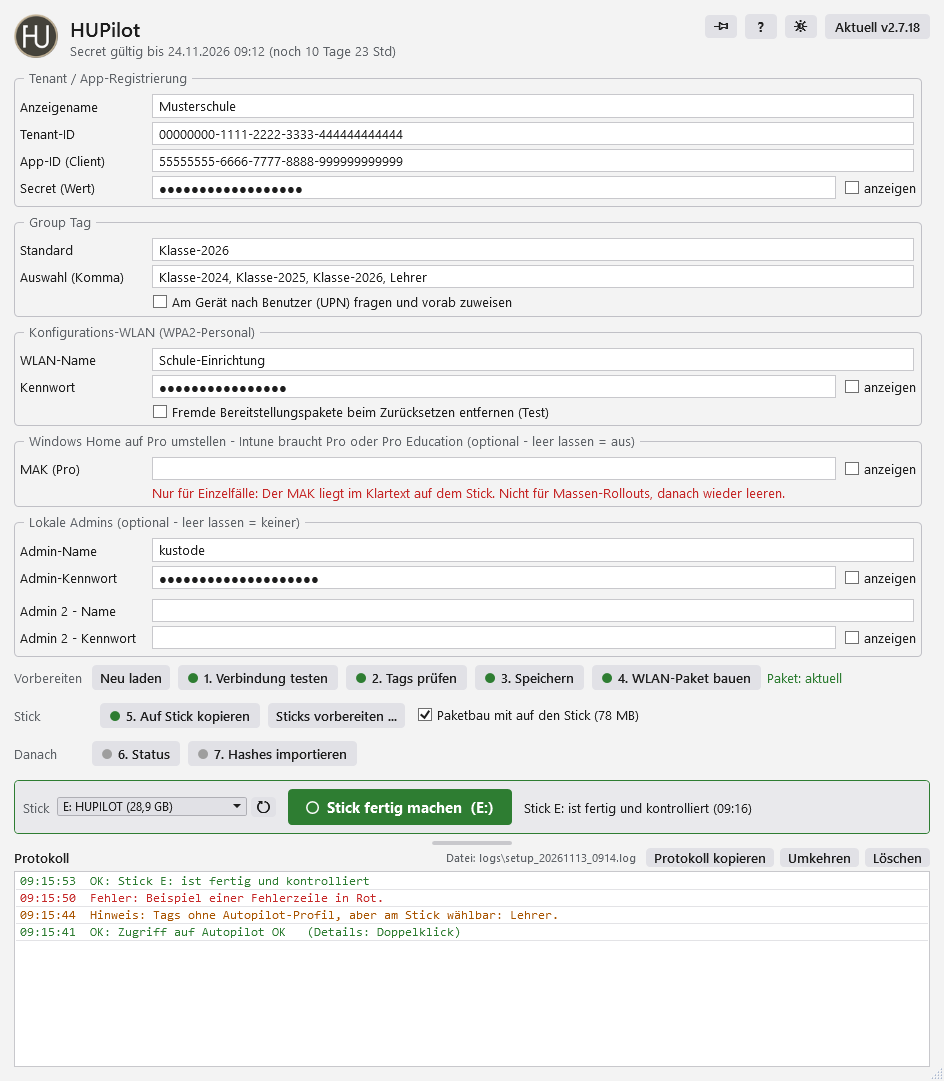
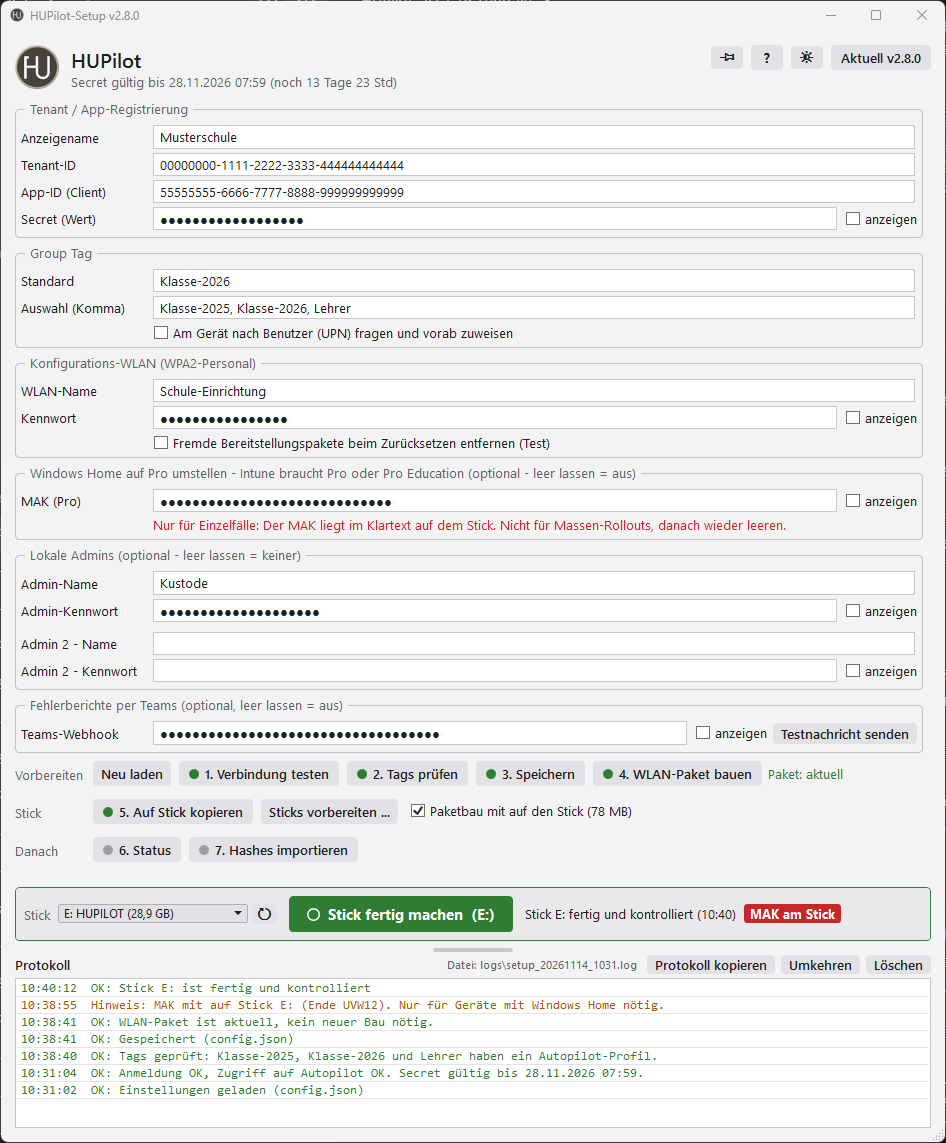
Doku: README, INSTALL und Anleitung auf den Stand gebracht, alle Bilder neu

Changed region(s): [[0.0, 0.0, 1.0, 1.0], [0.8909, 0.0, 1.0, 0.0611], [0.8294, 0.0, 0.8602, 0.0611]]

diff --git a/Stick/HUPilot/Setup/Anleitung.html b/Stick/HUPilot/Setup/Anleitung.html
@@ -117,7 +117,7 @@ code{background:var(--panel2);padding:1px 6px;border-radius:5px;font-size:13px}
 <tr><td><code>HUPilot-Setup.cmd</code></td><td>Oberfläche am Admin-PC</td></tr>
 <tr><td><code>HUPilot\config.json</code></td><td>Tenant, App, Secret, Tags, WLAN</td></tr>
 <tr><td><code>HUPilot\HUPilot-WLAN.ppkg</code></td><td>WLAN für die Einrichtung nach dem Zurücksetzen</td></tr>
-<tr><td><code>HUPilot\logs\</code></td><td>Log je Gerät, <code>protokoll.csv</code>, offline gespeicherte Hashes <code>hashes.csv</code>, Diagnose-Dateien, Protokolle des Setups</td></tr>
+<tr><td><code>HUPilot\logs\</code></td><td>Log je Gerät, <code>protokoll.csv</code>, offline gespeicherte Hashes <code>hashes.csv</code>, Diagnose-Dateien, Protokolle des Setups, in <code>outbox</code> noch nicht gesendete Berichte an den Admin</td></tr>
 </table>
 </section>
 
@@ -136,8 +136,8 @@ code{background:var(--panel2);padding:1px 6px;border-radius:5px;font-size:13px}
 <li><b>Secret beim Start:</b> Unter dem Titel steht, bis wann das Secret gilt. "Keine Verbindung - Secret nicht geprüft" (grau) heißt nur: kein Internet. Rot "Secret UNGÜLTIG" kommt nur, wenn es wirklich abgelaufen oder falsch ist.</li>
 <li><b>Secret abgelaufen:</b> Oben erscheint ein roter Hinweis mit dem Knopf <span class="ui">Neues Secret anlegen</span>, derselbe Knopf steht neben <i>Stick fertig machen</i>. Er öffnet die App-Registrierung im Entra-Portal. Dort ein neues Secret anlegen, den <b>Wert</b> kopieren (nicht die ID) und im Setup bei <i>Secret (Wert)</i> einfügen. Das Setup prüft von selbst und meldet "Neues Secret gültig bis ...". Danach speichern und <b>jeden Stick neu bespielen</b>, alte Sticks laden keine Geräte mehr hoch.</li>
 <li><b>Merker neben dem Hauptknopf:</b> Rot "MAK am Stick" heißt, auf dem gewählten Stick liegt ein MAK im Klartext (der Tooltip nennt die letzten 5 Zeichen). Stick ohne MAK: nochmal <i>Stick fertig machen</i> und bei der Frage zum MAK <b>Nein</b>. Gelb "Stick prüfen" heißt, die Einstellungen am Stick sind nicht lesbar: <i>Stick fertig machen</i> wiederholen.</li>
-<li><b>Fehlerberichte per Teams (optional):</b> Mit einer Adresse bei <i>Teams-Webhook</i> schickt go bei einem Fehler am Gerät von selbst einen Bericht in einen Teams-Kanal: Anzeigename, Seriennummer, Modell, was passiert ist und die letzten Zeilen des Logs. Einrichten: in Teams die App <b>Workflows</b> öffnen, Vorlage "Webhookbenachrichtigungen an einen Kanal" wählen, die angezeigte Adresse kopieren, im Setup einfügen, <span class="ui">Testnachricht senden</span>, speichern und die Sticks neu bespielen. Private Kanäle gehen nicht, ein Standardkanal in einem privaten Team schon. Mehrere Schulen können denselben Kanal nutzen, der Anzeigename steht in jeder Nachricht. Ohne Internet am Gerät bleibt der Bericht am Stick und wird später gesendet, auch vom Setup, sobald der Stick am PC steckt. Die Adresse liegt im Klartext am Stick: wer sie kennt, kann in den Kanal schreiben. Im Bericht können Benutzername und WLAN-Name stehen, den Kanal deshalb nicht für alle öffnen.</li>
-<li><b>Protokoll:</b> Rechtsklick, <i>An Admin senden</i> schickt eine Zeile mit Details in den Teams-Kanal (nur mit eingetragenem Teams-Webhook). Die Maus über einer Zeile zeigt die technische Meldung gegliedert, Doppelklick klappt sie auf. Rechtsklick, <i>Details kopieren</i> legt sie ohne Secret und Kennwörter in die Zwischenablage, zum Beispiel für eine Rückfrage beim Admin.</li>
+<li><b>Fehlerberichte per Teams (optional):</b> Mit einer Adresse bei <i>Teams-Webhook</i> schickt go bei einem Fehler am Gerät von selbst einen Bericht in einen Teams-Kanal: Anzeigename, Seriennummer, Modell, was passiert ist und das Log dieses Laufs (gleiche Meldungen nur einmal, mit Zähler). Einrichten: in Teams die App <b>Workflows</b> öffnen, Vorlage "Webhookbenachrichtigungen an einen Kanal" wählen, die angezeigte Adresse kopieren, im Setup einfügen, <span class="ui">Testnachricht senden</span>, speichern und die Sticks neu bespielen. Private Kanäle gehen nicht, ein Standardkanal in einem privaten Team schon. Mehrere Schulen können denselben Kanal nutzen, der Anzeigename steht in jeder Nachricht. Ohne Internet am Gerät bleibt der Bericht am Stick (<code>HUPilot\logs\outbox</code>) und wird später gesendet: von go beim nächsten Lauf mit Internet oder vom Setup, sobald der Stick am PC gewählt ist, beim Start und nach <i>Stick fertig machen</i>. Von selbst gehen höchstens 3 Berichte auf einmal, den Rest schickt der Rechtsklick im Protokoll <i>Berichte vom Stick senden</i>. Klappt das Senden nicht, versucht es das Setup beim nächsten Anstecken, nach <i>Stick fertig machen</i> oder frühestens nach 5 Minuten erneut. <i>Sticks vorbereiten</i> sendet die Berichte vor dem Formatieren und nennt in der Rückfrage, was dabei verloren ginge. Die Adresse liegt im Klartext am Stick: wer sie kennt, kann in den Kanal schreiben. Im Bericht können Benutzername und WLAN-Name stehen, den Kanal deshalb nicht für alle öffnen.</li>
+<li><b>Protokoll:</b> Rechtsklick, <i>An Admin senden</i> schickt eine Zeile mit Details in den Teams-Kanal (nur mit eingetragenem Teams-Webhook, nicht während ein Vorgang läuft). Liegen Berichte am Stick, steht dort auch <i>Berichte vom Stick senden (Anzahl)</i>. Die Maus über einer Zeile zeigt die technische Meldung gegliedert, Doppelklick klappt sie auf. Rechtsklick, <i>Details kopieren</i> legt sie ohne Secret und Kennwörter in die Zwischenablage, zum Beispiel für eine Rückfrage beim Admin.</li>
 <li><b>Beim Speichern geprüft:</b> Pflichtfelder, Tenant-ID und App-ID, WLAN-Kennwort (mindestens 8 Zeichen), lokale Admins, MAK, Group Tag und die Auswahl (gleiche Regeln wie am Gerät: Buchstaben, Ziffern, Punkt, Bindestrich, Unterstrich, höchstens 9 Einträge). Fehlt etwas, sagt das Protokoll, welches Feld und was zu tun ist.</li>
 <li><b>Auswahl leer lassen:</b> am Gerät gibt es dann keine Tag-Frage, es gilt der Standard-Tag.</li>
 </ul>
@@ -174,10 +174,10 @@ code{background:var(--panel2);padding:1px 6px;border-radius:5px;font-size:13px}
 <tr><td><span class="ui">3. Speichern</span></td><td>prüft die Eingaben und schreibt <code>config.json</code></td></tr>
 <tr><td><span class="ui">4. WLAN-Paket bauen</span></td><td>speichert zuerst und baut dann <code>HUPilot-WLAN.ppkg</code>. Braucht das <b>Windows ADK</b> mit <i>Imaging and Configuration Designer</i>. Sind <b>lokale Admins</b> eingetragen (Admin und optional Admin 2, z. B. Elternverein), kommen sie mit ins Paket: Sie werden nach jedem Zurücksetzen angelegt, Kennwort und Konto laufen nie ab.<br>Daneben steht der Stand des Pakets: <b>aktuell</b> (passt zu WLAN und Admins), <b>veraltet</b> (WLAN oder Admins geändert, neu bauen), <b>fehlt</b> oder <b>unbekannt</b> (mit einer älteren Version gebaut, einmal neu bauen).</td></tr>
 <tr><td><span class="ui">5. Auf Stick kopieren</span></td><td>speichert, kopiert alles 1:1 auf den gewählten Stick (ohne <code>logs</code>) und kontrolliert die Dateien. Mit dem gleichen Rückfragen wie der Hauptknopf: veraltetes oder fehlendes Paket (neu bauen, trotzdem kopieren, abbrechen), Secret, MAK.</td></tr>
-<tr><td><span class="ui">Sticks vorbereiten</span></td><td>nur wenn das Setup vom PC läuft: mehrere USB-Sticks formatieren (NTFS), benennen, befüllen und kontrollieren, gleichzeitig angesteckt oder nacheinander. Angesteckte und abgezogene Sticks erscheinen von selbst, eine Markierung bleibt nur beim selben Stick und wird sonst entfernt (steht im Protokoll des Fensters). Direkt vor dem Formatieren wird jeder Stick nochmal geprüft, ein getauschter wird nicht formatiert. Nach jedem Durchgang ist nichts mehr markiert. <i>Neu einlesen</i> geht weiterhin von Hand. Interne Laufwerke werden nie angeboten.</td></tr>
+<tr><td><span class="ui">Sticks vorbereiten</span></td><td>nur wenn das Setup vom PC läuft: mehrere USB-Sticks formatieren (NTFS), benennen, befüllen und kontrollieren, gleichzeitig angesteckt oder nacheinander. Angesteckte und abgezogene Sticks erscheinen von selbst, eine Markierung bleibt nur beim selben Stick und wird sonst entfernt (steht im Protokoll des Fensters). Direkt vor dem Formatieren wird jeder Stick nochmal geprüft, ein getauschter wird nicht formatiert. Liegen auf einem Stick noch Berichte an den Admin, werden sie vorher gesendet; was nicht gesendet werden kann, steht in der Rückfrage. Nach jedem Durchgang ist nichts mehr markiert. <i>Neu einlesen</i> geht weiterhin von Hand. Interne Laufwerke werden nie angeboten.</td></tr>
 <tr><td><span class="ui">Paketbau mit auf den Stick</span></td><td><b>Test.</b> Häkchen in der Zeile <b>Stick</b>, wird gemerkt. Nimmt den Paketbau (<code>ICD.exe</code> aus dem Windows ADK, rund 78 MB) mit auf den Stick, damit man damit auch an einem PC ohne ADK Pakete bauen kann. <span class="ui">Stick fertig machen</span>, <span class="ui">5. Auf Stick kopieren</span> und <span class="ui">Sticks vorbereiten</span> sehen nach, was am Stick schon liegt: gleiche Version bleibt, ältere wird aktualisiert, eine beschädigte ersetzt, eine neuere nicht überschrieben. Ohne Häkchen bleibt eine Kopie am Stick. Grau, wenn es an diesem PC kein ADK und keine Kopie gibt. Läuft das Setup vom Stick, zeigt das Häkchen, ob dieser Stick den Paketbau hat. Rechtsklick: Zustand anzeigen, Kopie aktualisieren, Kopie entfernen. Vor jedem Bau werden Prüfsummen und Signaturen kontrolliert (Schutz vor beschädigten Dateien und fremden Programmdateien, nicht vor jemandem, der den Stick gezielt verändert). Das Setup kennt derzeit ICD 10.0.28000.1. Das ADK gehört Microsoft und kommt nicht mit HUPilot, die Kopie ist nur für den eigenen Gebrauch.</td></tr>
 <tr><td><span class="ui">6. Status</span></td><td>Liste aller Autopilot-Geräte mit Stand in Klartext, siehe <a href="#status">Status-Fenster</a></td></tr>
-<tr><td><span class="ui">7. Hashes importieren</span></td><td>lädt offline gespeicherte Hashes (<code>HUPilot\logs\hashes.csv</code>) von Quelle und Stick hoch. Vorhandene Geräte bekommen nur den Tag, Erledigtes wandert nach <code>hashes-erledigt.csv</code>. Schließen während des Imports fragt nach und bricht sauber ab.</td></tr>
+<tr><td><span class="ui">7. Hashes importieren</span></td><td>lädt offline gespeicherte Hashes (<code>HUPilot\logs\hashes.csv</code>) von Quelle und Stick hoch. Vorhandene Geräte bekommen nur den Tag, Erledigtes wandert nach <code>hashes-erledigt.csv</code>. Während des Imports steht unten ein grüner Punkt mit "Import läuft, bitte warten ...", Microsoft braucht je Gerät meist 1 bis 5 Minuten. Fehler 806 und 808 stehen in Klartext mit dem nächsten Schritt da (siehe <a href="#fehler">Fehlersuche</a>). Schließen während des Imports fragt nach und bricht sauber ab.</td></tr>
 <tr><td><span class="ui">Update</span></td><td>prüft beim Start auf GitHub, ob es eine neuere <b>freigegebene</b> Version gibt (Gold = Update da). Klick: das Setup schließt sich, ein Fenster lädt die Version, prüft <b>jede Datei</b> (Prüfsumme und Signatur des Herausgebers), ersetzt erst dann alles auf einmal und startet das Setup neu. Bei einem Fehler bleibt der alte Stand. <code>config.json</code>, WLAN-Paket und <code>logs</code> bleiben immer.<br><b>Rechtsklick:</b> andere Version oder Vorversion, Kanal <i>Stabil</i> (Standard) oder <i>Test</i> (auch Vorab-Versionen), jetzt prüfen, <i>Info ...</i> und <i>Anleitung (F1)</i>.<br><b>Info</b> (auch per Klick auf das Logo oben links): Version und Stand, Update-Kanal, Quelle, PowerShell- und Windows-Version, Stand des Paketbaus, Protokolldatei der Sitzung und Links zu Repo, Anleitung, Änderungen und Lizenz. <i>Kopieren</i> legt diese Angaben für eine Rückfrage in die Zwischenablage, ohne Tenant, IDs und Secret.<br>Danach alle Sticks neu bespielen (<span class="ui g">Stick fertig machen</span>), das Setup erinnert nach jedem Update einmal daran.</td></tr>
 <tr><td><span class="ui">Fremde Bereitstellungspakete entfernen</span></td><td>Häkchen (<code>RemoveOtherPackages</code>), noch im <b>Test</b>: Alte Pakete am Gerät (z. B. von einem früheren Schul-MDM) würden das Zurücksetzen überleben und Autopilot stören. Vor dem Zurücksetzen bleibt nur <code>HUPilot-WLAN.ppkg</code>, die anderen werden vorher nach <code>C:\Recovery\HUPilot-PPKG-Backup</code> gesichert. Erst an einem Testgerät ausprobieren.</td></tr>
 <tr><td><span class="ui">MAK (Pro)</span></td><td>Feld <code>EditionKey</code>, optional, noch im <b>Test</b>: Volumenlizenz-Schlüssel (MAK) für Windows Pro. Windows Home lässt keine Intune-Verwaltung zu, dafür braucht es Pro oder Pro Education (auch Education, Enterprise). Mit dem MAK stellt go Geräte mit <b>Windows Home</b> auf Pro um (siehe <a href="#home">Windows Home</a>). Leer = aus, Geräte mit Home bleiben dann rot. Es muss der MAK der Schule sein: Die allgemeinen Schlüssel von Microsoft aktivieren nicht und werden abgelehnt. Jede Aktivierung zählt beim MAK mit. Im Log stehen nur die letzten 5 Zeichen.<br><b>Nur für Einzelfälle:</b> Der MAK steht im Klartext in <code>config.json</code> auf jedem Stick, der ihn bekommt. Nicht für Massen-Rollouts verwenden, Stick nicht aus der Hand geben, beim Kopieren nur dort "Ja" wählen, wo er gebraucht wird, und das Feld danach wieder leeren.</td></tr>
@@ -209,7 +209,7 @@ code{background:var(--panel2);padding:1px 6px;border-radius:5px;font-size:13px}
 <h3 id="ablauf">Ablauf und Fragen</h3>
 <div class="step"><b class="k">1</b><div>Gerät einschalten bis zum ersten Einrichtungsbildschirm, <b>Netzteil anstecken</b>, Stick anstecken.</div></div>
 <div class="step"><b class="k">2</b><div><code>Shift+F10</code> (ggf. <code>Fn+Shift+F10</code>), dann <code>D:\go</code> (anderer Laufwerksbuchstabe: <code>E:\go</code> usw.).</div></div>
-<div class="step"><b class="k">3</b><div><b>Erst prüfen:</b> go prüft zuerst Einstellungen, Seriennummer, Windows, WLAN-Paket und Hardware-Hash. Fehlt etwas, kommt Rot sofort, noch vor der ersten Frage.</div></div>
+<div class="step"><b class="k">3</b><div>go öffnet sein Fenster maximiert. <b>Erst prüfen:</b> go prüft zuerst Einstellungen, Seriennummer, Windows, WLAN-Paket und Hardware-Hash. Fehlt etwas, kommt Rot sofort, noch vor der ersten Frage.</div></div>
 <div class="step"><b class="k">4</b><div><b>Dann fragen:</b> Tag wählen (<kbd>Enter</kbd> = Standard, Ziffer = Auswahl, ohne Auswahl im Setup entfällt die Frage), ggf. Benutzer (UPN, nur wenn im Setup eingeschaltet) und "zurücksetzen?" (<kbd>Enter</kbd> = Standard, <code>N</code> = nur hochladen). Jede Frage hat einen Countdown von 10 Sekunden, dann gilt der Standard.</div></div>
 <div class="step"><b class="k">5</b><div><b>Zusammenfassung:</b> Seriennummer, Tenant, Tag, Benutzer, Zurücksetzen und Windows. Danach läuft alles ohne weitere Fragen.</div></div>
 <div class="step"><b class="k">6</b><div>Bei <b>grün</b> Stick abziehen und zum nächsten Gerät. Das Gerät wartet auf das Autopilot-Profil und setzt sich selbst zurück, <b>nicht ausschalten</b>.</div></div>
@@ -255,9 +255,9 @@ code{background:var(--panel2);padding:1px 6px;border-radius:5px;font-size:13px}
 <p>Das Fenster öffnet sofort und lädt die Geräte aus Autopilot und Intune (grüner Punkt und "lade Autopilot-Geräte, Seite 1"). Oben stehen Kacheln mit Zahlen: <b>Geräte gesamt</b>, <b>Fertig</b>, <b>Wartet auf Profil</b>, <b>Profil da, noch nicht angemeldet</b>, <b>Problem</b>. Gibt es solche Geräte, kommen <b>Hardware geändert</b>, <b>Hardware wird abgeglichen</b>, <b>Doppelt</b> und <b>Wird gelöscht</b> dazu. Ein Klick auf eine Kachel zeigt nur diese Geräte, ein zweiter Klick wieder alle.</p>
 <table>
 <tr><th>Stand</th><th>Was tun</th></tr>
-<tr><td><span class="c" style="background:#40a02b"></span>Fertig</td><td>Nichts, das Gerät ist in Intune angemeldet.</td></tr>
+<tr><td><span class="c" style="background:#40a02b"></span>Fertig</td><td>Nichts, das Gerät ist fertig (in Intune angemeldet).</td></tr>
 <tr><td><span class="c" style="background:#df8e1d"></span>Wartet auf Profil</td><td>Nichts, läuft. Das Profil kommt meist in 5 bis 15 Minuten. Ist es nicht synchron: Autopilot-Sync anstoßen und ein paar Minuten warten.</td></tr>
-<tr><td><span class="c" style="background:#df8e1d"></span>Profil da, Gerät noch nicht angemeldet</td><td>Gerät einschalten, mit dem WLAN verbinden und neu starten, dann meldet es sich an.</td></tr>
+<tr><td><span class="c" style="background:#df8e1d"></span>Profil da, Gerät noch nicht angemeldet</td><td>Gerät einschalten, mit dem WLAN verbinden und neu starten, dann meldet es sich an. Steht in der Spalte Profil "zugew., Datum fehlt": Das Profil ist zugewiesen, das Datum von Microsoft fehlt noch. Gerät neu starten, kommt die Anmeldeseite der Schule, passt es.</td></tr>
 <tr><td><span class="c" style="background:#d20f39"></span>Kein Profil für diesen Tag</td><td>Tag prüfen (<i>2. Tags prüfen</i>) oder mit <i>Tag ändern</i> einen Tag mit Profil wählen.</td></tr>
 <tr><td><span class="c" style="background:#d20f39"></span>Fehler</td><td>Gerät in Intune prüfen, dann mit dem Stick neu zurücksetzen. Blockiert: Admin fragen.</td></tr>
 <tr><td><span class="c" style="background:#d20f39"></span>Hardware geändert</td><td>Das Gerät kam zum Beispiel mit neuem Mainboard zurück, Microsoft kann das nicht selbst lösen. Eintrag mit <i>Autopilot-Eintrag löschen ...</i> entfernen, dann mit dem Stick neu registrieren.</td></tr>
@@ -268,10 +268,10 @@ code{background:var(--panel2);padding:1px 6px;border-radius:5px;font-size:13px}
 <ul>
 <li><b>Filter:</b> Tag, <i>nur Geräte aus dem Stick-Protokoll</i> (voreingestellt, wenn ein Stick-Protokoll da ist), <i>heute</i>, <i>nur Probleme</i>, <i>nur letzte</i> 4, 24 oder 48 Stunden oder heute (nach Registrierung oder Autopilot-Import), Suche nach Seriennummer, Gerätename oder Benutzer.</li>
 <li><b>Aktualisieren:</b> mit dem Knopf oder alle 60 Sekunden von selbst (Häkchen, wird gemerkt). Neben dem Häkchen steht "Stand: Uhrzeit". Auswahl, Sortierung und Filter bleiben.</li>
-<li><b>Spalten:</b> Das Fenster ist so breit wie die Spalten, auf einem zu schmalen Bildschirm bricht "Was tun" um. Spalten lassen sich verschieben und breiter ziehen, das wird gemerkt. Profil und Intune stehen weiter hinten. Der Stand steht als farbiges Schild in der ersten Spalte.</li>
+<li><b>Spalten:</b> Das Fenster ist so breit wie die Spalten, auf einem zu schmalen Bildschirm bricht "Was tun" um. Spalten lassen sich verschieben (die Reihenfolge wird gemerkt) und breiter ziehen (gilt bis zum Schließen). Gekürzte Texte zeigen den vollen Inhalt, wenn die Maus darüber steht. Profil und Intune stehen weiter hinten. Der Stand steht als farbiges Schild in der ersten Spalte.</li>
 <li><b>Details:</b> Doppelklick auf eine Zeile oder <span class="ui">Details ...</span>: alle Angaben zum Gerät mit dem Autopilot-Profil und dem ganzen Verlauf vom Stick. <span class="ui">Kopieren</span> legt den Text in die Zwischenablage.</li>
 <li><b>Tag ändern ...</b>: Geräte markieren (<kbd>Strg</kbd>+Klick, <kbd>Umschalt</kbd>+Klick), Tag aus Standard- und Auswahl-Tags wählen. Die Rückfrage nennt die Seriennummern. Die Geräte wechseln danach in die Gruppe des neuen Tags und bekommen dessen Profil, bereits eingerichtete Geräte erst beim nächsten Zurücksetzen.</li>
-<li><b>Autopilot-Eintrag löschen ...</b>: für ein Gerät, dessen alter Eintrag stört, zum Beispiel nach einem Mainboardtausch oder bei doppelten Einträgen. Geräte markieren, höchstens 5. Die erste Abfrage zeigt je Gerät Seriennummer, Autopilot-ID, Gerätename, Tag, Benutzer, letzten Kontakt und was verloren geht, bei fertig eingerichteten Geräten mit Warnung. Die zweite verlangt die Seriennummer, bei mehreren Geräten das Wort <code>LÖSCHEN</code>, getippt (Einfügen ist gesperrt). Gelöscht werden der Intune-Eintrag (nur mit dem optionalen Schreibrecht, siehe <a href="#app">App-Registrierung</a>), die Benutzer-Zuweisung und der Autopilot-Eintrag. Das lässt sich nicht rückgängig machen. Die Zeile steht danach mit "Wird gelöscht" in der Liste, bis Microsoft den Eintrag entfernt hat. Soll das Gerät wieder in Autopilot: danach mit dem Stick neu registrieren.</li>
+<li><b>Autopilot-Eintrag löschen ...</b>: für ein Gerät, dessen alter Eintrag stört, zum Beispiel nach einem Mainboardtausch oder bei doppelten Einträgen. Geräte markieren, höchstens 5. Die erste Abfrage zeigt je Gerät Seriennummer, Autopilot-ID, Gerätename, Tag, Benutzer, letzten Kontakt und was verloren geht, bei fertig eingerichteten Geräten mit Warnung. Die zweite verlangt die Seriennummer, bei mehreren Geräten das Wort <code>LÖSCHEN</code>, getippt (Einfügen ist gesperrt). Gelöscht werden der Intune-Eintrag (nur mit dem optionalen Schreibrecht, siehe <a href="#app">App-Registrierung</a>), die Benutzer-Zuweisung und der Autopilot-Eintrag. Nennt Microsoft für ein frisch hochgeladenes Gerät einen Intune-Eintrag, den es in Intune noch nicht gibt, steht bei Intune "kein Eintrag gefunden. Gibt es ihn doch, wird er mit gelöscht." Das lässt sich nicht rückgängig machen. Die Zeile steht danach mit "Wird gelöscht" in der Liste, bis Microsoft den Eintrag entfernt hat. Soll das Gerät wieder in Autopilot: danach mit dem Stick neu registrieren.</li>
 <li><b>Autopilot-Sync anstoßen</b>: Microsoft gleicht Autopilot neu ab, laut Microsoft immer für den ganzen Tenant. Geht höchstens alle 10 Minuten, sonst kommt ein Hinweis "läuft bereits".</li>
 <li><b>CSV speichern, Excel speichern, Drucken</b> (Querformat vorgewählt, auch als PDF): die angezeigten Zeilen mit denselben Spalten wie im Fenster, Stand eingefärbt. Excel muss nicht installiert sein. Beim Drucken fallen leere Spalten weg und die Schrift wird bei Bedarf kleiner; nur "Was tun" und "Benutzer" brechen notfalls um. Kopfzeile auf jeder Seite, unten die Seitenzahl.</li>
 </ul>
@@ -283,7 +283,7 @@ code{background:var(--panel2);padding:1px 6px;border-radius:5px;font-size:13px}
 <table>
 <tr><th>Meldung / Problem</th><th>Lösung</th></tr>
 <tr><td>Secret abgelaufen oder falsch</td><td>Am Gerät wird der Hash am Stick gespeichert (gelb). Im Setup <i>Neues Secret anlegen</i> klicken, den neuen Wert (nicht die ID) bei <i>Secret (Wert)</i> einfügen, <i>Stick fertig machen</i>, dann <i>7. Hashes importieren</i>.</td></tr>
-<tr><td>Import-Fehler 806 (<code>ZtdDeviceAlreadyAssigned</code>)</td><td>Das Gerät steht schon unter einem alten Eintrag in Autopilot. Im Setup unter <i>6. Status</i> den alten Eintrag mit <i>Autopilot-Eintrag löschen ...</i> entfernen, warten, bis er aus der Liste verschwunden ist (bis zu 30 Minuten), dann nochmal <code>D:\go</code> bzw. nochmal importieren.</td></tr>
+<tr><td>Import-Fehler 806 (<code>ZtdDeviceAlreadyAssigned</code>)</td><td>Das Gerät steht schon unter einem alten Eintrag in Autopilot. Im Setup unter <i>6. Status</i> den alten Eintrag mit <i>Autopilot-Eintrag löschen ...</i> entfernen, warten, bis er aus der Liste verschwunden ist (bis zu 30 Minuten), dann nochmal <code>D:\go</code> bzw. nochmal importieren. Kein Eintrag zu finden: den Admin fragen.</td></tr>
 <tr><td>Import-Fehler 808 (<code>ZtdDeviceAssignedToOtherTenant</code>)</td><td>Das Gerät ist bei Microsoft noch einer anderen Organisation zugeordnet, zum Beispiel dem Vorbesitzer. Zuerst im Status nach einem alten eigenen Eintrag mit dieser Seriennummer suchen. Gibt es keinen: Händler oder Vorbesitzer müssen das Gerät freigeben, den Admin fragen.</td></tr>
 <tr><td>"Keine Verbindung - Secret nicht geprüft" im Setup</td><td>Kein Internet am PC. Das Secret kann trotzdem gültig sein, später <i>1. Verbindung testen</i>.</td></tr>
 <tr><td>"Paket: veraltet" oder "unbekannt"</td><td><i>4. WLAN-Paket bauen</i> (oder <i>Stick fertig machen</i>, das baut es selbst). Ohne Windows ADK auf einem anderen PC bauen, oder den Stick dort mit dem Häkchen <i>Paketbau mit auf den Stick</i> bespielen (Test).</td></tr>
@@ -299,7 +299,7 @@ code{background:var(--panel2);padding:1px 6px;border-radius:5px;font-size:13px}
 <tr><td>Fehler am Gerät</td><td><code>D:\diag</code> (Shift+F10 bzw. Admin-Eingabeaufforderung), Menü: Log, Fehler, Zurücksetzen, Gerät, Netzwerk, WLAN-Paket und Intune-Sperre. Jede Seite abfotografieren. <b>7</b> speichert alles in <code>HUPilot\logs\diag-Datum.txt</code> am Stick.</td></tr>
 <tr><td>Unter dem roten Bild: "Bericht an den Admin gesendet" oder "Bericht am Stick gespeichert"</td><td>Nur mit eingetragenem Teams-Webhook. Gesendet: der Admin hat den Fehler samt Log schon. Am Stick gespeichert: kein Internet, der Bericht geht beim nächsten Lauf mit Internet oder am PC im Setup hinaus. Kommt nie ein Bericht an: <code>D:\diag</code> zeigt bei der Netzprüfung, ob der Teams-Workflow erreichbar ist.</td></tr>
 <tr><td>Setup startet nicht</td><td><code>C:\Users\Public\HUPilot-Setup-Start.log</code></td></tr>
-<tr><td>Rot "Edition ... lässt keine Intune-Verwaltung zu"</td><td>Windows Home, nötig ist Pro oder Pro Education (auch Education, Enterprise). Mit MAK (Pro) auf dem Stick stellt go auf Pro um (<a href="#home">Windows Home</a>). Ohne MAK: Gerät auf Pro oder Education bringen oder den Hash anders hochladen.</td></tr>
+<tr><td>Rot "Windows ... lässt sich nicht mit Intune verwalten"</td><td>Windows Home, nötig ist Pro oder Pro Education (auch Education, Enterprise). Mit MAK (Pro) auf dem Stick stellt go auf Pro um (<a href="#home">Windows Home</a>). Ohne MAK: Gerät auf Pro oder Education bringen oder den Hash anders hochladen.</td></tr>
 <tr><td>Rot "Umstellung auf Pro hat nicht geklappt"</td><td>Ein früherer Versuch an diesem Gerät ist gescheitert. Noch ein Versuch: <code>D:\go</code> und bei der Frage <code>W</code> drücken. Sonst über Windows: Einrichtung mit lokalem Konto abschließen, Einstellungen, Aktivierung, "Product Key ändern" mit dem MAK, danach HUPilot erneut.</td></tr>
 <tr><td>Gelb "Profil kann nicht geprüft werden"</td><td>der App fehlt <code>Group.Read.All</code> (siehe App-Registrierung). go lädt trotzdem hoch, nach einer Tag-Änderung wird aber nicht selbst zurückgesetzt.</td></tr>
 <tr><td>Gelb "HARDWARE-ÄNDERUNG" (Autopilot: "Fix ausstehend" oder "Achtung erforderlich")</td><td>Gerät kam z. B. mit neuem Mainboard vom Support, der gespeicherte Hash passt nicht mehr. <b>N</b> drücken: go löscht Intune- und Autopilot-Eintrag, wartet bis zu 30 Minuten und lädt den neuen Hash hoch (braucht <code>DeviceManagementManagedDevices.ReadWrite.All</code>, sonst den Intune-Eintrag vorher im Portal löschen). Ohne Gerät in der Hand: im Setup unter <i>6. Status</i> steht das Gerät mit Stand "Hardware geändert", dort lässt sich der alte Eintrag löschen.</td></tr>

diff --git a/README.md b/README.md
@@ -18,7 +18,7 @@ Hash mit Group Tag hochladen, Gerät ohne Hersteller-Programme zurücksetzen: <c
 
 ## Ablauf am Gerät
 
-1. Neues Gerät im ersten Einrichtungsbildschirm, Stick anstecken, **Shift+F10**, dann `D:\go`
+1. Neues Gerät im ersten Einrichtungsbildschirm, Stick anstecken, **Shift+F10**, dann `D:\go` (das Fenster öffnet maximiert)
 2. go prüft zuerst Einstellungen, Seriennummer, Windows, WLAN-Paket und Hash, dann kommen die Fragen: Tag (optional Benutzer) und "zurücksetzen ja/nein" (je 10 s, sonst Standard)
 3. Zusammenfassung, danach läuft alles ohne weitere Fragen, mit "Schritt x von 6"
 4. Upload, dann **grün "STICK ABZIEHEN"**, nächstes Gerät
@@ -26,14 +26,14 @@ Hash mit Group Tag hochladen, Gerät ohne Hersteller-Programme zurücksetzen: <c
 
 Jedes Ende zeigt drei Sätze: was passiert ist, was jetzt passiert und was zu tun ist.
 
-<p align="center"><img src="Assets/screenshot-go-fertig.png" width="520" alt="Grünes Abschlussbild am Gerät"/></p>
+<p align="center"><img src="Assets/screenshot-go-fertig.png" width="420" alt="Grünes Abschlussbild am Gerät"/> <img src="Assets/screenshot-go-fehler.png" width="420" alt="Rotes Abschlussbild am Gerät"/></p>
 
 | Farbe | Bedeutung |
 |---|---|
 | Grün | Upload fertig, Stick abziehen |
 | Gelb | Netzteil fehlt, kein Profil für den Tag, noch kein Profil (weiter warten), **Hash gespeichert** (offline, später am PC hochladen) |
-| Blau | Zurücksetzen startet |
-| Rot | Fehler, **nichts** zurückgesetzt. Ursache und nächster Schritt stehen am Bildschirm. Diagnose zum Abfotografieren: `D:\diag` |
+| Blau | Zurücksetzen startet, Windows wird auf Pro umgestellt |
+| Rot | Fehler, **nichts** zurückgesetzt. Ursache und nächster Schritt stehen am Bildschirm. Diagnose zum Abfotografieren: `D:\diag`. Mit eingetragenem Teams-Webhook geht ein Bericht an den Admin, ohne Internet bleibt er am Stick und wird später gesendet |
 
 ## Vorbereitung
 
@@ -42,7 +42,21 @@ Jedes Ende zeigt drei Sätze: was passiert ist, was jetzt passiert und was zu tu
 3. Stick anstecken, auswählen und **Stick fertig machen** klicken: prüft Eingaben, Verbindung, Secret und Tags, speichert, baut das WLAN-Paket wenn nötig, kopiert und kontrolliert den Stick. Die Einzelschritte 1 bis 7 gibt es weiterhin, jeder mit Ampel.
 4. Danach *6. Status* (Stand jedes Geräts in Klartext, mit "Was tun") und ggf. *7. Hashes importieren*
 
-<p align="center"><a href="Assets/screenshot-status.png"><img src="Assets/screenshot-status.png" width="800" alt="Status-Fenster mit Stand und Was tun"/></a></p>
+Neben dem Hauptknopf steht rot **MAK am Stick**, wenn auf dem gewählten Stick ein MAK im Klartext liegt. Ist das Secret abgelaufen, zeigt das Setup einen roten Hinweis mit dem Knopf *Neues Secret anlegen*.
+
+### Status
+
+Kacheln und Zeilen zeigen jeden Stand: Fertig, Wartet auf Profil, Profil da (noch nicht angemeldet), Kein Profil für diesen Tag, Fehler, Hardware geändert, Hardware wird abgeglichen, Doppelt und Wird gelöscht. Klick auf eine Kachel filtert. Dazu Details, Tag ändern, Autopilot-Sync anstoßen, CSV, Excel und Drucken.
+
+<p align="center"><a href="Assets/screenshot-status.png"><img src="Assets/screenshot-status.png" width="800" alt="Status-Fenster mit jedem Stand und Was tun"/></a></p>
+
+**Autopilot-Eintrag löschen** (z. B. nach einem Mainboardtausch oder bei doppelten Einträgen): höchstens 5 Geräte, erste Abfrage zeigt, was gelöscht wird und was verloren geht, die zweite verlangt die Seriennummer (bei mehreren Geräten `LÖSCHEN`) getippt. Danach steht das Gerät mit "Wird gelöscht" in der Liste, bis Microsoft den Eintrag entfernt hat (bis zu 30 Minuten).
+
+<p align="center"><img src="Assets/screenshot-loeschen.png" width="420" alt="Erste Abfrage beim Löschen"/> <img src="Assets/screenshot-details.png" width="400" alt="Details-Fenster eines Geräts"/></p>
+
+**7. Hashes importieren** lädt offline gespeicherte Hashes hoch. Importfehler 806 (schon unter einem alten Eintrag in Autopilot) und 808 (anderer Organisation zugeordnet) stehen in Klartext mit dem nächsten Schritt da.
+
+<p align="center"><img src="Assets/screenshot-hashes.png" width="640" alt="Hashes importieren, Import läuft"/></p>
 
 Die Oberfläche gibt es dunkel und hell, umschaltbar mit dem Knopf oben rechts.
 
@@ -56,6 +70,7 @@ Die Oberfläche gibt es dunkel und hell, umschaltbar mit dem Knopf oben rechts.
 - **Kein CleanPC-Paket verwenden:** Windows wendet gespeicherte Pakete nach jedem Zurücksetzen erneut an (Endlosschleife).
 - Optional bis zu zwei lokale Admins, z. B. Kustode und Elternverein (Kennwort und Konto laufen nie ab), kommen mit dem WLAN-Paket. Das Setup zeigt, ob das Paket noch zu WLAN und Admins passt. Sperrt Intune Bereitstellungspakete (`AllowAddProvisioningPackage`), bleibt am eingerichteten Gerät das vorhandene Paket.
 - Kein Internet oder Secret abgelaufen: der Hash wird am Stick gespeichert und später im Setup hochgeladen. Die Uhrzeit stellt go selbst. Das Setup warnt beim Kopieren, wenn das Secret abgelaufen ist oder bald abläuft.
+- Fehlerberichte per Teams (optional): Adresse eines Teams-Workflows im Setup bei *Teams-Webhook* eintragen, *Testnachricht senden*. go schickt bei Rot einen Bericht mit dem Log dieses Laufs, im Setup schickt Rechtsklick im Protokoll, *An Admin senden* eine Zeile mit Details. Die Adresse liegt im Klartext am Stick, Berichte können Seriennummer, Gerätename, Benutzer- und WLAN-Namen enthalten: Kanal nur für die Admins.
 - Das Setup schreibt ein Protokoll je Sitzung nach `HUPilot\logs` (ohne Secret, Kennwörter und Schlüssel).
 - Setup prüft beim Start online auf neue Versionen (Knopf *Update*, gold = neu). Updates kommen als GitHub-Release mit Prüfsumme und Signatur des Herausgebers und werden erst nach Freigabe angeboten (Kanal *Stabil*, *Test* per Rechtsklick).
 - Schutz: Gerät mit Benutzerprofil: rote Rückfrage. Ohne Netzteil und unter 50 % Akku: wartet.

diff --git a/INSTALL.md b/INSTALL.md
@@ -4,7 +4,7 @@
 Entra > App-Registrierungen > **Neue Registrierung** > Name `HUPilot-Upload`, nur dieses Verzeichnis, keine Umleitungs-URI
 - API-Berechtigungen > Microsoft Graph > **Anwendung** > `DeviceManagementServiceConfig.ReadWrite.All` > **Administratorzustimmung**. Reicht auch für *Tag ändern*, *Autopilot-Sync anstoßen* und *Autopilot-Eintrag löschen* im Status-Fenster.
 - optional (nur Lesen): `Application.Read.All` für den Ablauf des Secrets (Setup und Hinweis am Gerät); `DeviceManagementManagedDevices.Read.All` für primären Benutzer, Gerätename, letzten Sync bei *Status*; `Group.Read.All` für die Tag-Prüfung (Gerät und *Tags prüfen*); `User.Read.All` für die Prüfung des Benutzers bei Vorab-Zuweisung
-- optional, ohne Recht in der App-Registrierung: **Fehlerberichte per Teams**. In Teams die App *Workflows* öffnen, Vorlage "Webhookbenachrichtigungen an einen Kanal", Adresse kopieren und im Setup bei *Teams-Webhook* eintragen, *Testnachricht senden*. Private Kanäle gehen nicht. Die Adresse liegt im Klartext am Stick, die Firewall im Einrichtungs-WLAN muss sie durchlassen
+- optional, ohne Recht in der App-Registrierung: **Fehlerberichte per Teams**. In Teams die App *Workflows* öffnen, Vorlage "Webhookbenachrichtigungen an einen Kanal", Adresse kopieren und im Setup bei *Teams-Webhook* eintragen, *Testnachricht senden*. Private Kanäle gehen nicht. Die Adresse liegt im Klartext am Stick, die Firewall im Einrichtungs-WLAN muss sie durchlassen. Ohne Internet am Gerät bleibt der Bericht in `HUPilot\logs\outbox` am Stick und geht später von go oder vom Setup hinaus
 - optional (Schreiben): `DeviceManagementManagedDevices.ReadWrite.All`: go kann Geräte nach einem **Mainboardtausch** neu registrieren (löscht den alten Intune-Eintrag, ersetzt `DeviceManagementManagedDevices.Read.All`), und *Autopilot-Eintrag löschen* im Status-Fenster löscht auch den Intune-Eintrag. Ohne dieses Recht löscht das Setup nur den Autopilot-Eintrag und sagt das vorher
 - Zertifikate & Geheimnisse > neues Secret, kurz gültig > den **Wert** kopieren
 
@@ -26,6 +26,7 @@ Vom PC aus: *Sticks vorbereiten* formatiert und befüllt mehrere USB-Sticks, der
 | `AdminName`, `AdminPassword` | optional lokaler Admin (leer = keiner), kommt mit dem WLAN-Paket |
 | `Admin2Name`, `Admin2Password` | optional zweiter lokaler Admin, z. B. Elternverein (leer = keiner) |
 | `EditionKey` | optional MAK für Windows Pro (Home auf Pro umstellen, leer = aus). Das Setup fragt beim Kopieren, ob er auf den Stick soll |
+| `TeamsWebhook` | optional Adresse eines Teams-Workflows für Fehlerberichte (leer = aus), im Setup Feld *Teams-Webhook* |
 
 **Kein** `.ppkg` ins Hauptverzeichnis des Sticks legen.
 
@@ -54,6 +55,6 @@ Sperrt Intune Bereitstellungspakete (`AllowAddProvisioningPackage = 0`), kann go
 ## Fehlersuche
 - Updates: Knopf *Update* im Setup (prüft beim Start online). Klick startet `HUPilot\Setup\Pull.ps1`: lädt das Release, prüft Prüfsumme und Signatur, ersetzt erst dann. Rechtsklick: Vorversion, Kanal Stabil/Test.
 - Erstinstallation ohne Stick: `Pull.ps1` aus dem Repo laden und ausführen (`powershell -ExecutionPolicy Bypass -File Pull.ps1`), legt `Desktop\HUPilot` an
-- Logs: Gerät `C:\Windows\Temp\HUPilot.log` und `HUPilot-Wipe.log`, Stick `HUPilot\logs\`, Setup `HUPilot\logs\setup_<Datum>.log` (die letzten 20)
+- Logs: Gerät `C:\Windows\Temp\HUPilot.log` und `HUPilot-Wipe.log`, Stick `HUPilot\logs\` (noch nicht gesendete Berichte in `outbox`), Setup `HUPilot\logs\setup_<Datum>.log` (die letzten 20)
 - Am Gerät: `D:\diag`, Diagnose-Menü zum Abfotografieren (ändert nichts), *7* speichert alles am Stick
 - Setup startet nicht: `C:\Users\Public\HUPilot-Setup-Start.log`
